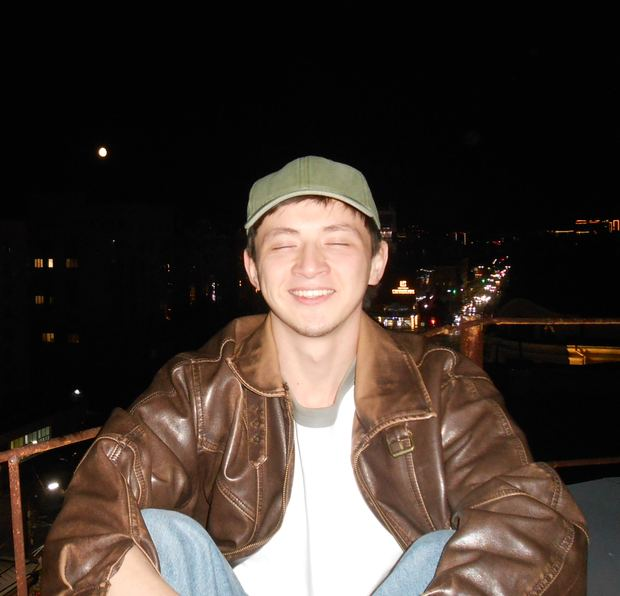
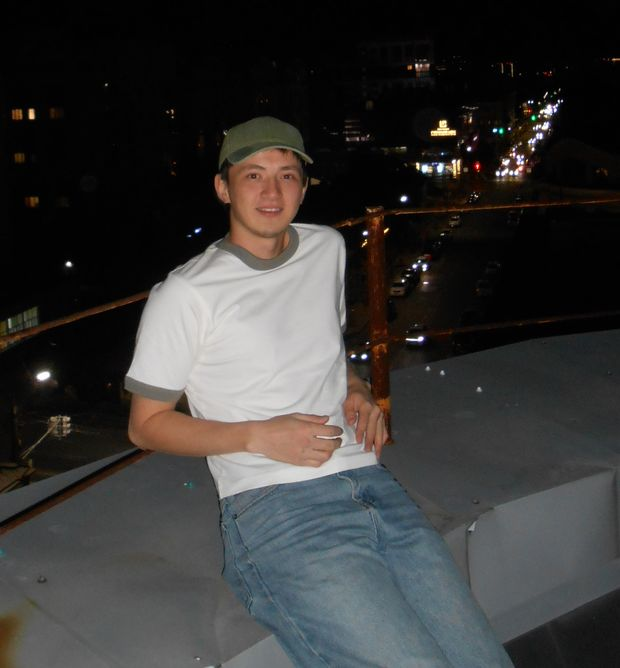
Add files via upload

diff --git a/index.html b/index.html
@@ -54,7 +54,7 @@ section{padding-top:clamp(84px,10vw,140px)}
 .hero .shade{position:absolute;inset:0;background:linear-gradient(180deg,rgba(11,11,11,.55) 0%,rgba(11,11,11,.15) 35%,rgba(11,11,11,.85) 100%)}
 .hero .swap{position:absolute;inset:0;opacity:0;transition:opacity .45s ease}
 .hero .swap.on{opacity:1}
-.hero .swap img{width:100%;height:100%;object-fit:cover}
+.hero .swap img{width:100%;height:100%;object-fit:cover;object-position:50% 50%}
 .hero .swap::after{content:"";position:absolute;inset:0;background:linear-gradient(180deg,rgba(122,27,34,.35),rgba(11,11,11,.85))}
 .hero > *{position:relative;z-index:2}
 .hero .wrap{width:100%}
@@ -86,10 +86,12 @@ section{padding-top:clamp(84px,10vw,140px)}
 .stats figure{margin:0}
 .stats img{width:100%;border-radius:12px;border:1px solid var(--line)}
 .stats-note{margin-top:20px;font-size:15px;color:var(--mute)}
-.revs{margin-top:56px;display:grid;grid-template-columns:minmax(0,1fr) minmax(0,420px);gap:clamp(24px,4vw,64px);align-items:start;border-top:1px solid var(--line);padding-top:32px}
+.revs{margin-top:56px;border-top:1px solid var(--line);padding-top:32px}
+.revs-txt{display:flex;flex-wrap:wrap;align-items:baseline;justify-content:space-between;gap:10px 40px;margin-bottom:24px}
 .revs-title{font-family:var(--display);font-weight:800;font-size:clamp(30px,3.4vw,52px);line-height:1}
-.revs-txt p{margin-top:14px;color:var(--mute);font-size:16px;max-width:30ch}
+.revs-txt p{color:var(--mute);font-size:16px;max-width:36ch}
 .revs img{width:100%;border-radius:12px}
+.rev-tall{display:none}
 
 /* DIRECTIONS */
 .cards{display:grid;grid-template-columns:repeat(6,1fr);gap:14px}
@@ -195,8 +197,8 @@ section{padding-top:clamp(84px,10vw,140px)}
   .dir span{display:none}
   .grid{grid-template-columns:1fr 1fr;gap:24px 10px}
   .cards{grid-template-columns:1fr}
-  .revs{grid-template-columns:1fr}
-  .revs img{max-width:420px}
+  .rev-wide{display:none}
+  .rev-tall{display:block}
   .contact .h2{font-size:52px}
 }
 </style>
@@ -210,7 +212,7 @@ section{padding-top:clamp(84px,10vw,140px)}
   <div class="swap" id="swap"><img id="swapimg" src="assets/img/d_sde.jpg" alt=""></div>
 
   <div class="wrap hbar">
-    <span>Петербург · Уфа</span>
+    <span>Санкт-Петербург</span>
     <a href="https://t.me/c.hingiz">@c.hingiz</a>
   </div>
 
@@ -253,7 +255,8 @@ section{padding-top:clamp(84px,10vw,140px)}
         <h3 class="revs-title">Отзывы моих клиентов</h3>
         <p>Переписки после сдачи роликов, без правок и монтажа.</p>
       </div>
-      <img src="assets/img/revs.jpg" alt="Скриншоты отзывов клиентов в Telegram" loading="lazy">
+      <img class="rev-wide" src="assets/img/revs_h.jpg" alt="Скриншоты отзывов клиентов в Telegram" loading="lazy">
+      <img class="rev-tall" src="assets/img/revs.jpg" alt="Скриншоты отзывов клиентов в Telegram" loading="lazy">
     </div>
   </section>
 
@@ -264,11 +267,11 @@ section{padding-top:clamp(84px,10vw,140px)}
     <div class="grid">
       <figure class="work feature">
         <a class="frame" href="https://vkvideo.ru/video-38277591_456239520" target="_blank" rel="noopener"><img src="assets/img/w_podcast.jpg" alt="Съёмка видеоподкаста Бишбармак Show"><span class="play"></span></a>
-        <figcaption><h3>Бишбармак Show</h3><div class="meta">Видеоподкаст · съёмка</div><p>Студийная съёмка на несколько камер.</p></figcaption>
+        <figcaption><h3>Подкасты и интервью</h3><div class="meta">Съёмка на несколько камер</div><p>Студийная съёмка, свет и звук.</p></figcaption>
       </figure>
       <figure class="work">
         <a class="frame" href="https://disk.yandex.ru/i/8QvXrp5EqhjpHw" target="_blank" rel="noopener"><img src="assets/img/w_catering.jpg" alt="Десерт с логотипом кейтеринга"><span class="play"></span></a>
-        <figcaption><h3>Кейтеринг Айгуль Усмановой</h3><div class="meta">Reels · съёмка и монтаж</div><p>Рекламные ролики для соцсетей.</p></figcaption>
+        <figcaption><h3>Для бизнеса и брендов</h3><div class="meta">Reels · съёмка и монтаж</div><p>Рекламные ролики для соцсетей.</p></figcaption>
       </figure>
       <figure class="work">
         <a class="frame" href="https://disk.yandex.ru/i/aJ0IfszR8GQJ5w" target="_blank" rel="noopener"><img src="assets/img/w_concert.jpg" alt="Музыкант на сцене"><span class="play"></span></a>
@@ -298,7 +301,7 @@ section{padding-top:clamp(84px,10vw,140px)}
         <span class="kicker" style="color:#E8A3A8">2013 → сейчас</span>
         <h2>Мальчик под столом</h2>
         <p>В пятом классе я снял видео по английскому: актёры, кот, монтаж. Показал учителю <span class="wine">и залез под парту</span>, пока класс смотрел.</p>
-        <p>Я бы и дальше прятался под столом, просто не везде он есть.</p>
+        <p>Я бы и дальше прятался под партами, просто не везде они есть.</p>
       </div>
     </div>
   </section>
@@ -361,7 +364,8 @@ section{padding-top:clamp(84px,10vw,140px)}
 <script>
 const swap=document.getElementById('swap'),swapimg=document.getElementById('swapimg'),srcs={"d_sde": "assets/img/d_sde.jpg", "d_brands": "assets/img/d_brands.jpg", "d_people": "assets/img/d_people.jpg", "d_events": "assets/img/d_events.jpg", "d_pranks": "assets/img/d_pranks.jpg"};
 document.querySelectorAll('.dir').forEach(d=>{
-  const show=()=>{const k=d.dataset.img;if(srcs[k]){swapimg.src=srcs[k];swap.classList.add('on')}};
+  const pos={d_brands:'50% 14%',d_people:'50% 8%',d_events:'50% 22%',d_sde:'50% 30%',d_pranks:'50% 40%'};
+  const show=()=>{const k=d.dataset.img;if(srcs[k]){swapimg.src=srcs[k];swapimg.style.objectPosition=pos[k]||'50% 50%';swap.classList.add('on')}};
   const hide=()=>swap.classList.remove('on');
   d.addEventListener('mouseenter',show);d.addEventListener('focus',show);
   d.addEventListener('mouseleave',hide);d.addEventListener('blur',hide);
